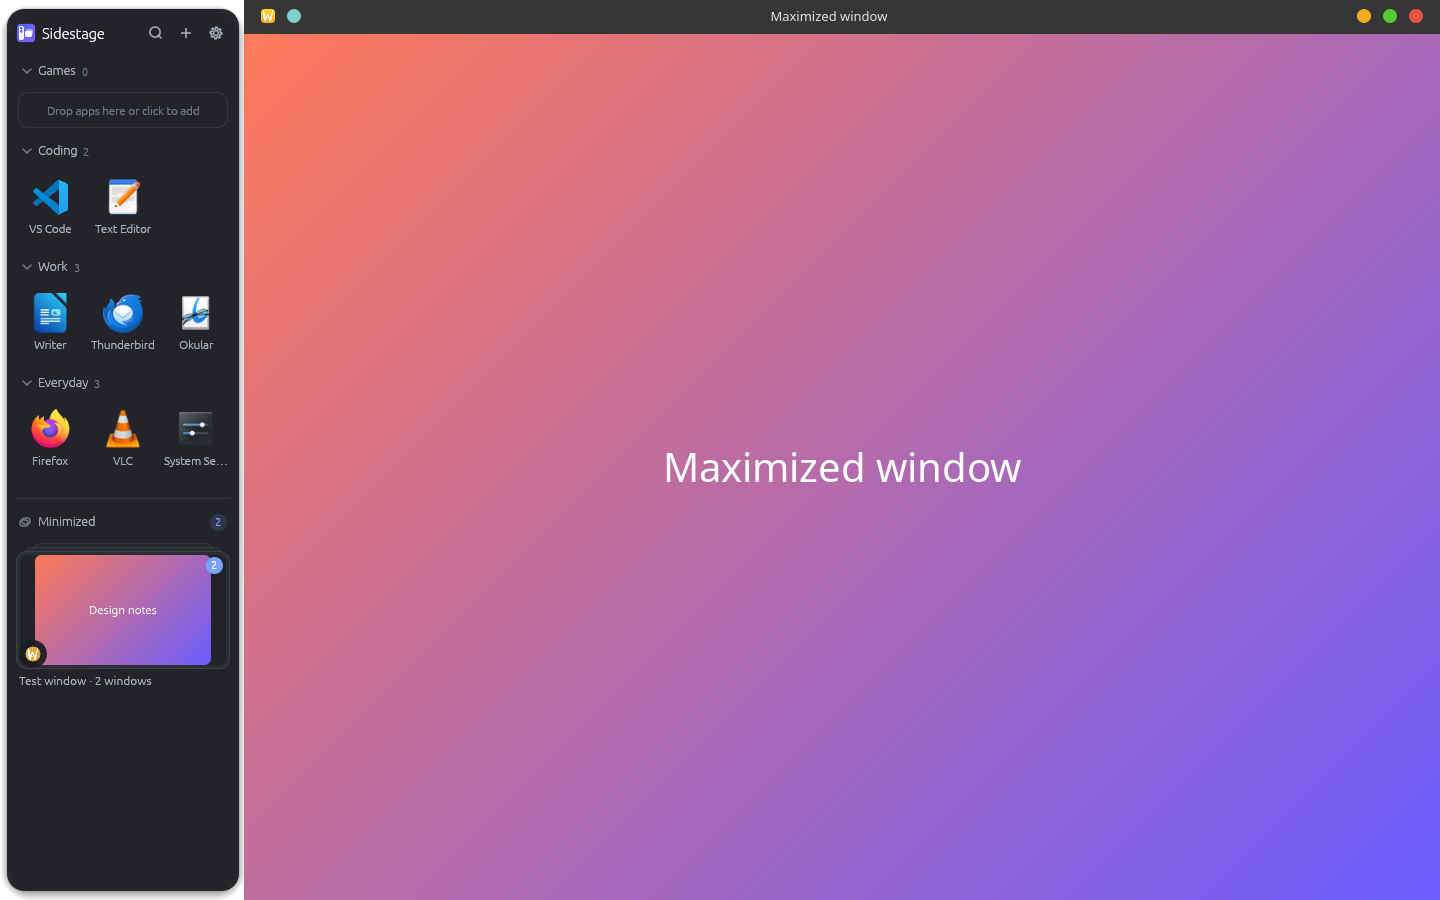
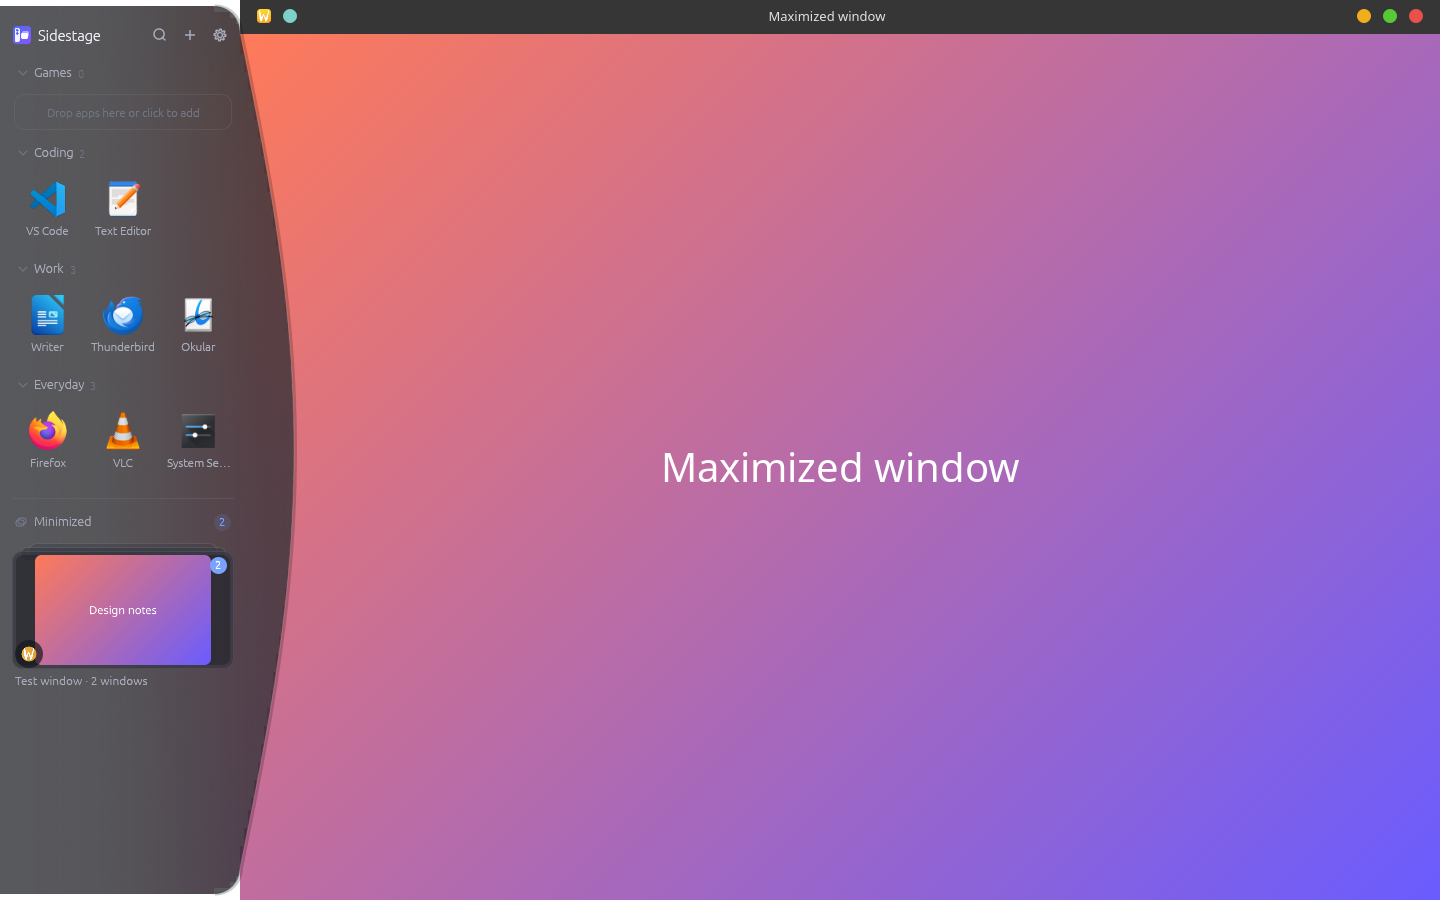
Deeper arch: narrow ends, 54px swell floating over windows; input shape follows the outline

Changed region(s): [[0.0, 0.0, 0.2188, 1.0], [0.4375, 0.4978, 0.7188, 0.56], [0.5312, 0.0, 0.625, 0.0311]]

diff --git a/crates/sidestage-platform/src/linux/panel.rs b/crates/sidestage-platform/src/linux/panel.rs
@@ -486,7 +486,36 @@ impl Panel {
             }
             _ => self.conn.delete_property(self.window, atom).map(|_| ()),
         };
-        let _ = r.and_then(|_| self.conn.flush());
+        let _ = r;
+        // The same region is the input shape while revealed, so clicks
+        // outside the curved outline reach the windows underneath.
+        if self.last.as_ref().map(|g| g.collapsed_strip.is_none()).unwrap_or(true) {
+            let shaped = match &rects {
+                Some(v) if !v.is_empty() => {
+                    let list: Vec<x11rb::protocol::xproto::Rectangle> = v
+                        .iter()
+                        .map(|r| x11rb::protocol::xproto::Rectangle {
+                            x: r[0] as i16,
+                            y: r[1] as i16,
+                            width: r[2].max(1) as u16,
+                            height: r[3].max(1) as u16,
+                        })
+                        .collect();
+                    self.conn.shape_rectangles(
+                        shape::SO::SET,
+                        shape::SK::INPUT,
+                        x11rb::protocol::xproto::ClipOrdering::UNSORTED,
+                        self.window,
+                        0,
+                        0,
+                        &list,
+                    )
+                }
+                _ => self.conn.shape_mask(shape::SO::SET, shape::SK::INPUT, self.window, 0, 0, x11rb::NONE),
+            };
+            let _ = shaped;
+        }
+        let _ = self.conn.flush();
         self.blur = Some(rects);
     }
 

diff --git a/crates/sidestage/src/sidebar.rs b/crates/sidestage/src/sidebar.rs
@@ -1430,8 +1430,8 @@ fn toast(app: &SidestageApp, painter: &egui::Painter, card: Rect) {
 // edge that bows gently toward the middle of the screen.
 
 /// How far the inner edge bulges at mid-height (logical px).
-const ARCH_BULGE: f32 = 24.0;
-const ARCH_RADIUS: f32 = 44.0;
+const ARCH_BULGE: f32 = 54.0;
+const ARCH_RADIUS: f32 = 26.0;
 
 struct Arch {
     /// Bounding box of the straight part; content lives here.
@@ -1444,7 +1444,7 @@ impl Arch {
     fn new(full: Rect, left: bool, slide: f32) -> Arch {
         let top = full.top() + 6.0;
         let bottom = full.bottom() - 6.0;
-        let inner = full.width() - OUTER_MARGIN + 2.0; // straight inner edge, from the screen edge
+        let inner = full.width() - OUTER_MARGIN + 4.0; // straight inner edge, from the screen edge
         let r = ARCH_RADIUS.min((bottom - top) / 4.0);
         // Build for the left edge, in window-local x (0 = screen edge).
         let mut pts: Vec<(f32, f32)> = vec![(0.0, top)];

diff --git a/crates/sidestage/src/app.rs b/crates/sidestage/src/app.rs
@@ -24,7 +24,7 @@ use crate::tray::{Tray, TrayCommand};
 pub const HIDDEN_STRIP: f32 = 6.0;
 /// Extra window width beyond the sidebar body, used by the arch's curved
 /// inner edge (logical px).
-pub const OUTER_MARGIN: f32 = 30.0;
+pub const OUTER_MARGIN: f32 = 62.0;
 
 #[derive(Default)]
 pub struct AutoHide {
@@ -457,10 +457,11 @@ impl SidestageApp {
             Edge::Left => mon.x,
             Edge::Right => mon.x + mon.width - w,
         };
+        // Reserve only the body; the arch's swell floats over windows.
         let reserve = if s.auto_hide || !s.reserve_space {
             0
         } else {
-            full_w
+            ((s.width + 4.0) * self.scale).round() as i32
         };
         let geometry = PanelGeometry {
             monitor: mon,
